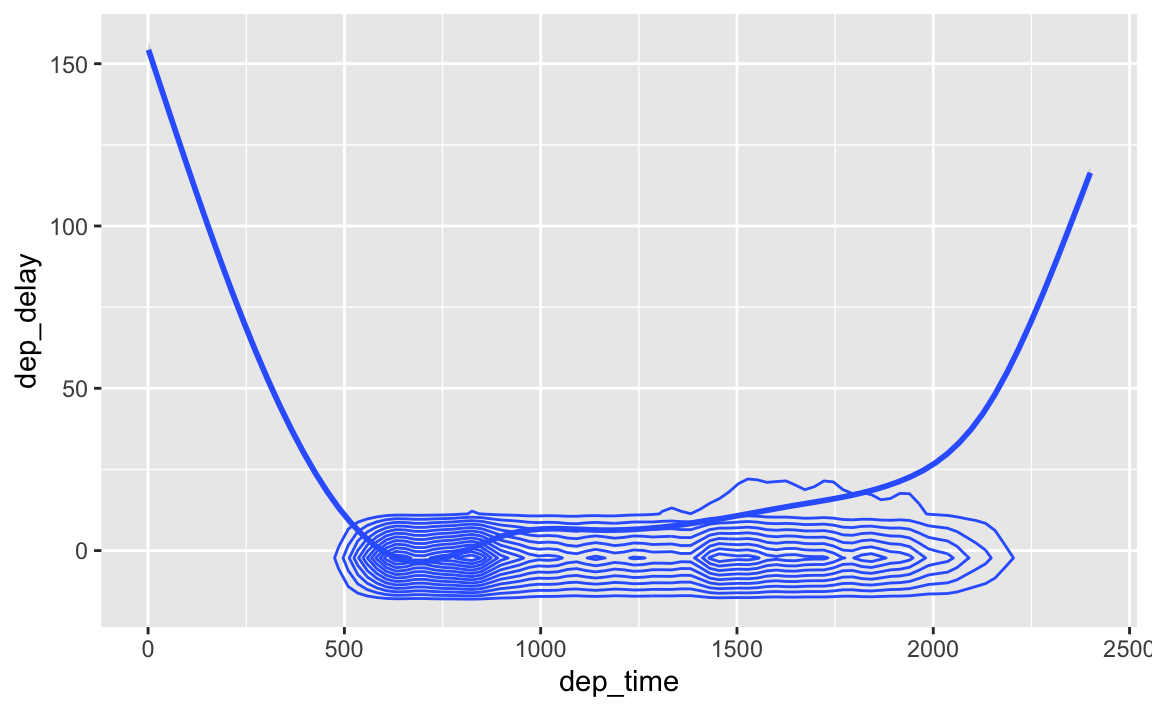
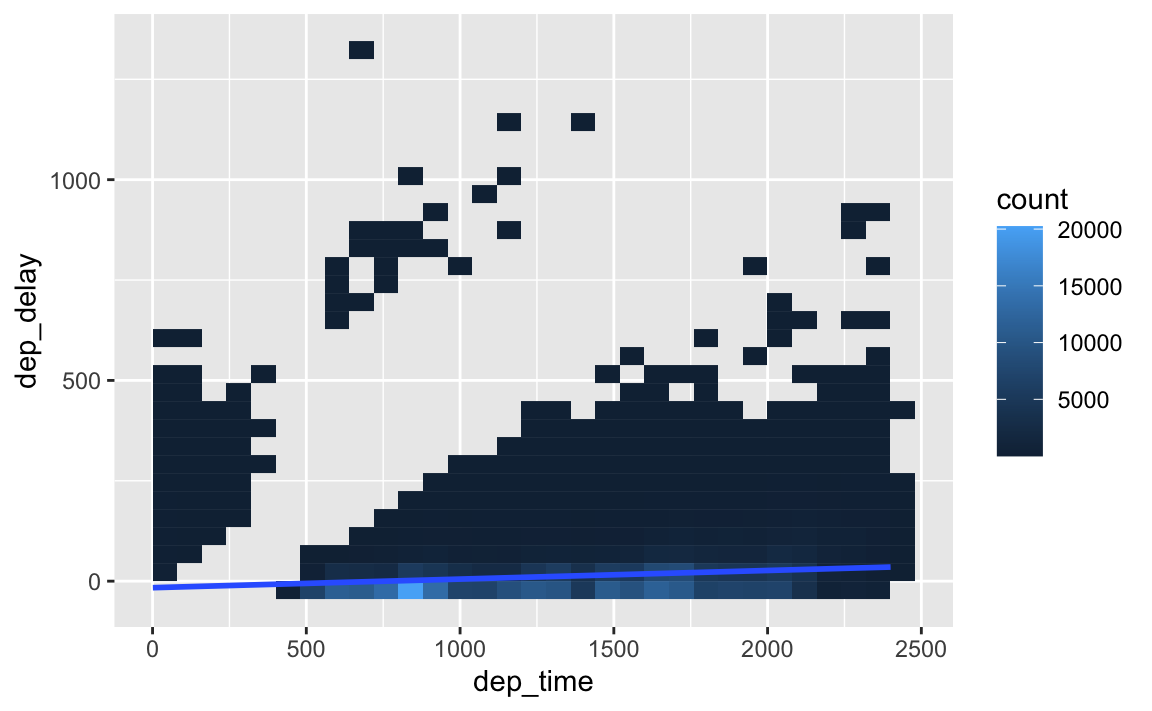
update post flights vis

diff --git a/content/post/2020-11-12-fallstudie-zur-datenvisualisierung-datensatz-flights/index.html b/content/post/2020-11-12-fallstudie-zur-datenvisualisierung-datensatz-flights/index.html
@@ -37,6 +37,11 @@ data(&quot;flights&quot;)</code></pre>
 <li><p>Visualisieren Sie den Anteil der verspäteten Flüge nach Wochentag</p></li>
 </ol>
 </div>
+<div id="hinweise" class="section level1">
+<h1>Hinweise</h1>
+<p>Es kann sein, dass Teile der Lösungen Ihnen unbekannt sind. Lassen Sie sich davon nicht ins Boxhorn jagen. Im Zweifelsfall einfach ignorieren.</p>
+<p>Einige Visualisierungen sind nicht unbedingt gelungen. Hier stand die Didaktik der Technik im Vordergrund.</p>
+</div>
 <div id="lösungen" class="section level1">
 <h1>Lösungen</h1>
 <div id="visualisieren-sie-die-verteilung-der-verspätungen-der-flüge." class="section level2">
@@ -45,13 +50,13 @@ data(&quot;flights&quot;)</code></pre>
   ggplot() +
   aes(x = dep_delay) +
   geom_histogram()</code></pre>
-<p><img src="index_files/figure-html/unnamed-chunk-2-1.png" width="70%" style="display: block; margin: auto;" /></p>
+<p><img src="index_files/figure-html/unnamed-chunk-2-1.png" width="100%" style="display: block; margin: auto;" /></p>
 <p>Alternativ:</p>
 <pre class="r"><code>flights %&gt;% 
   ggplot() +
   aes(x = dep_delay) +
   geom_density()</code></pre>
-<p><img src="index_files/figure-html/unnamed-chunk-3-1.png" width="70%" style="display: block; margin: auto;" /></p>
+<p><img src="index_files/figure-html/unnamed-chunk-3-1.png" width="100%" style="display: block; margin: auto;" /></p>
 </div>
 <div id="visualisieren-sie-die-verteilung-der-verspätung-der-flüge-pro-abflugsort." class="section level2">
 <h2>2. Visualisieren Sie die Verteilung der Verspätung der Flüge pro Abflugsort.</h2>
@@ -60,7 +65,7 @@ data(&quot;flights&quot;)</code></pre>
   aes(x = dep_delay) +
   geom_density() +
   facet_wrap(~ origin)</code></pre>
-<p><img src="index_files/figure-html/unnamed-chunk-4-1.png" width="70%" style="display: block; margin: auto;" /></p>
+<p><img src="index_files/figure-html/unnamed-chunk-4-1.png" width="100%" style="display: block; margin: auto;" /></p>
 </div>
 <div id="visualisieren-sie-den-zusammenhang-von-verspätung-und-tageszeit.-reduzieren-sie-dabei-overplotting." class="section level2">
 <h2>3. Visualisieren Sie den Zusammenhang von Verspätung und Tageszeit. Reduzieren Sie dabei Overplotting.</h2>
@@ -69,21 +74,21 @@ data(&quot;flights&quot;)</code></pre>
   ggplot() +
   aes(x = dep_time, dep_delay) +
   geom_density2d()</code></pre>
-<p><img src="index_files/figure-html/unnamed-chunk-5-1.png" width="70%" style="display: block; margin: auto;" /></p>
+<p><img src="index_files/figure-html/unnamed-chunk-5-1.png" width="100%" style="display: block; margin: auto;" /></p>
 <p>Mit “Glättungslinie” im Punkteschwarm:</p>
 <pre class="r"><code>flights %&gt;% 
   ggplot() +
   aes(x = dep_time, dep_delay) +
   geom_density2d() +
   geom_smooth()  # Glättungslinie</code></pre>
-<p><img src="index_files/figure-html/unnamed-chunk-6-1.png" width="70%" style="display: block; margin: auto;" /></p>
-<p>… oder als “Trendgerade:”</p>
+<p><img src="index_files/figure-html/unnamed-chunk-6-1.png" width="100%" style="display: block; margin: auto;" /></p>
+<p>… oder als "Trendgerade2 mirt <code>geom_bin2d</code>:</p>
 <pre class="r"><code>flights %&gt;% 
   ggplot() +
   aes(x = dep_time, dep_delay) +
-  geom_density2d() +
-  geom_smooth()  # Glättungslinie</code></pre>
-<p><img src="index_files/figure-html/unnamed-chunk-7-1.png" width="70%" style="display: block; margin: auto;" /></p>
+  geom_bin2d() +
+  geom_smooth(method = &quot;lm&quot;)  # Glättungslinie</code></pre>
+<p><img src="index_files/figure-html/unnamed-chunk-7-1.png" width="100%" style="display: block; margin: auto;" /></p>
 </div>
 <div id="visualisieren-sie-den-zusammenhang-von-verspätung-und-flugstrecke-distance-aufgeteilt-nach-abflugsort-und-nach-monat" class="section level2">
 <h2>4. Visualisieren Sie den Zusammenhang von Verspätung und Flugstrecke (<code>distance</code>) – aufgeteilt nach Abflugsort und nach Monat!</h2>
@@ -93,7 +98,7 @@ data(&quot;flights&quot;)</code></pre>
   aes(x = distance, dep_delay) +
   geom_density2d() +
   facet_grid(origin ~ month)</code></pre>
-<p><img src="index_files/figure-html/unnamed-chunk-8-1.png" width="70%" style="display: block; margin: auto;" /></p>
+<p><img src="index_files/figure-html/unnamed-chunk-8-1.png" width="100%" style="display: block; margin: auto;" /></p>
 <p>Das Bild ist nicht sehr aussagekräftig.</p>
 </div>
 <div id="visualisieren-sie-den-zusammenhang-von-verspätung-und-tageszeit-für-die-drei-airlines-mit-der-höchsten-durchschnittsverspätung." class="section level2">
@@ -116,7 +121,7 @@ data(&quot;flights&quot;)</code></pre>
   ggplot() +
   aes(x = dep_time, dep_delay) +
   geom_density2d()</code></pre>
-<p><img src="index_files/figure-html/unnamed-chunk-10-1.png" width="70%" style="display: block; margin: auto;" /></p>
+<p><img src="index_files/figure-html/unnamed-chunk-10-1.png" width="100%" style="display: block; margin: auto;" /></p>
 </div>
 <div id="visualisieren-sie-den-anteil-der-verspäteten-flüge-nach-abflugsort." class="section level2">
 <h2>6. Visualisieren Sie den Anteil der verspäteten Flüge nach Abflugsort.</h2>
@@ -129,7 +134,7 @@ data(&quot;flights&quot;)</code></pre>
   aes(x = origin, y = delay_prop) +
   geom_col()
   </code></pre>
-<p><img src="index_files/figure-html/unnamed-chunk-11-1.png" width="70%" style="display: block; margin: auto;" /></p>
+<p><img src="index_files/figure-html/unnamed-chunk-11-1.png" width="100%" style="display: block; margin: auto;" /></p>
 <p>Oder so:</p>
 <pre class="r"><code>flights %&gt;% 
   mutate(is_delayed = dep_delay &gt; 0) %&gt;% 
@@ -137,7 +142,7 @@ data(&quot;flights&quot;)</code></pre>
   ggplot() +
   aes(x = origin, fill = is_delayed) +
   geom_bar()</code></pre>
-<p><img src="index_files/figure-html/unnamed-chunk-12-1.png" width="70%" style="display: block; margin: auto;" /></p>
+<p><img src="index_files/figure-html/unnamed-chunk-12-1.png" width="100%" style="display: block; margin: auto;" /></p>
 <p>Oder so:</p>
 <pre class="r"><code>flights %&gt;% 
   mutate(is_delayed = dep_delay &gt; 0) %&gt;% 
@@ -145,7 +150,7 @@ data(&quot;flights&quot;)</code></pre>
   ggplot() +
   aes(x = origin, fill = is_delayed) +
   geom_bar(position = &quot;fill&quot;)</code></pre>
-<p><img src="index_files/figure-html/unnamed-chunk-13-1.png" width="70%" style="display: block; margin: auto;" /></p>
+<p><img src="index_files/figure-html/unnamed-chunk-13-1.png" width="100%" style="display: block; margin: auto;" /></p>
 </div>
 <div id="visualisieren-sie-den-anteil-der-verspäteten-flüge-nach-uhrzeit." class="section level2">
 <h2>7. Visualisieren Sie den Anteil der verspäteten Flüge nach Uhrzeit.</h2>
@@ -158,7 +163,7 @@ data(&quot;flights&quot;)</code></pre>
   geom_bar(position = &quot;fill&quot;) +
   facet_wrap(~ hour) +
   scale_fill_viridis_d()  # d wie &quot;discrete&quot;</code></pre>
-<p><img src="index_files/figure-html/unnamed-chunk-14-1.png" width="70%" style="display: block; margin: auto;" /></p>
+<p><img src="index_files/figure-html/unnamed-chunk-14-1.png" width="100%" style="display: block; margin: auto;" /></p>
 </div>
 <div id="visualisieren-sie-den-anteil-der-verspäteten-flüge-nach-wochentag" class="section level2">
 <h2>8. Visualisieren Sie den Anteil der verspäteten Flüge nach Wochentag</h2>
@@ -174,6 +179,6 @@ data(&quot;flights&quot;)</code></pre>
   geom_bar(position = &quot;fill&quot;) +
   facet_wrap(~ day_of_week) +
   scale_fill_viridis_d()  # d wie &quot;discrete&quot;</code></pre>
-<p><img src="index_files/figure-html/unnamed-chunk-16-1.png" width="70%" style="display: block; margin: auto;" /></p>
+<p><img src="index_files/figure-html/unnamed-chunk-16-1.png" width="100%" style="display: block; margin: auto;" /></p>
 </div>
 </div>
